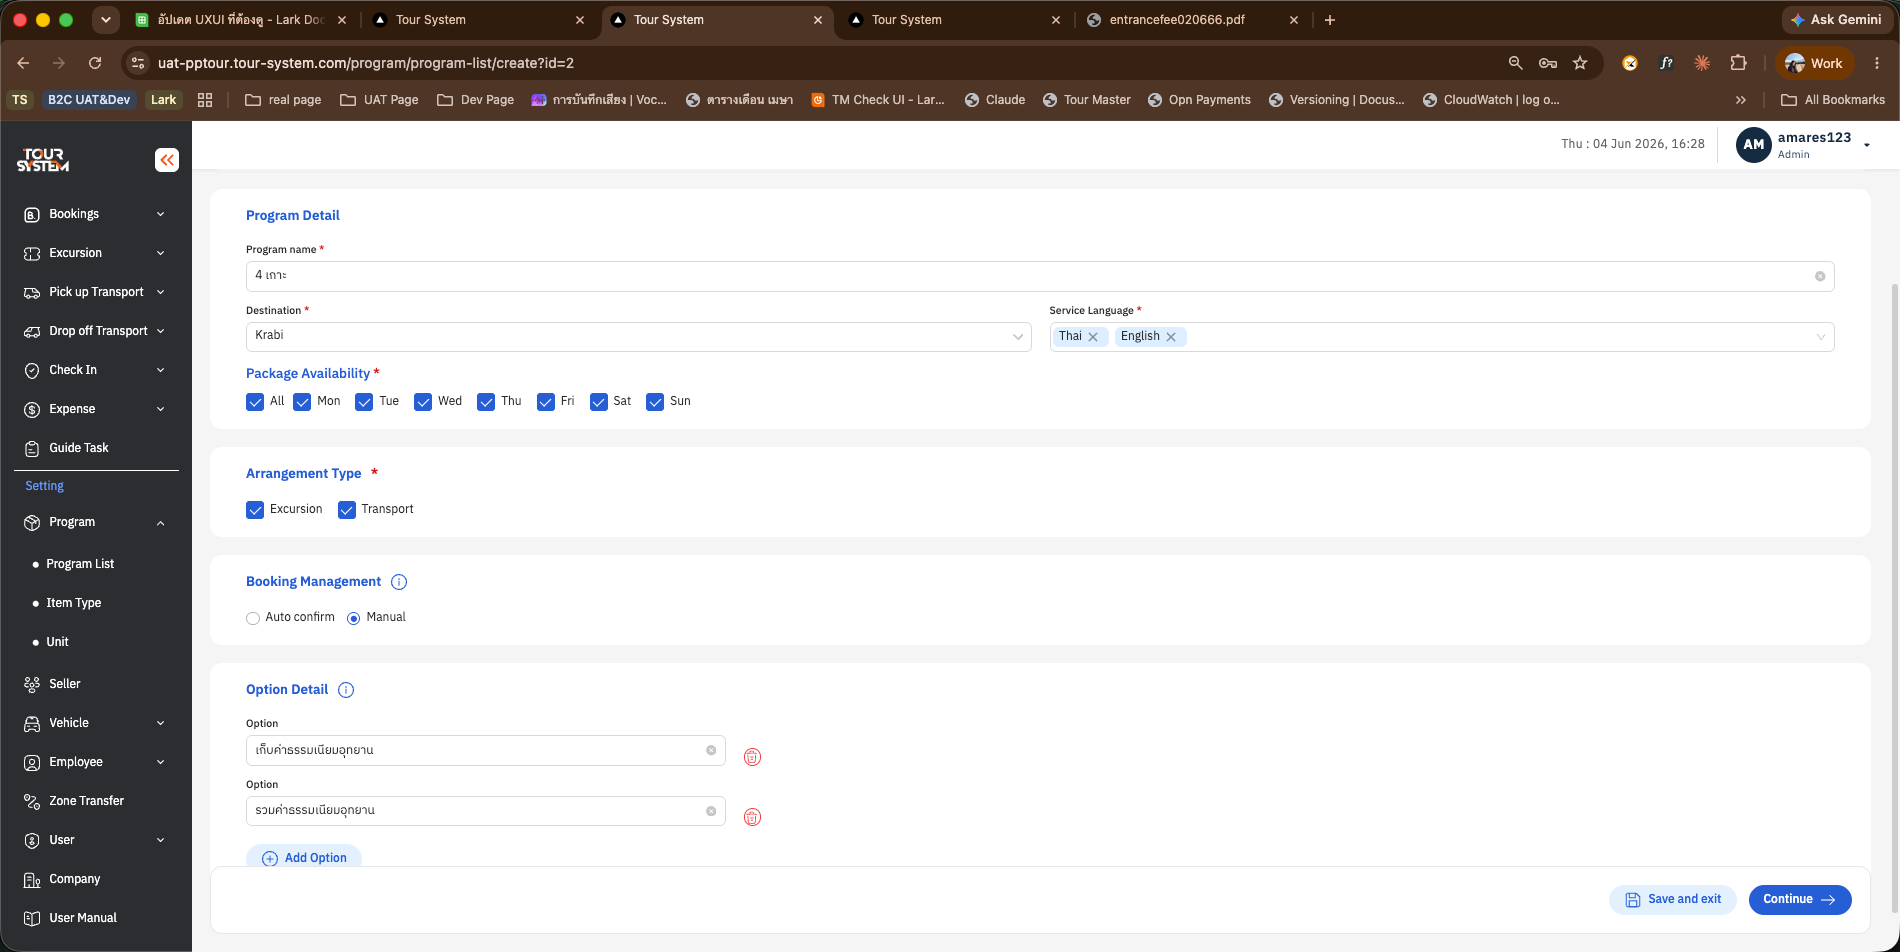
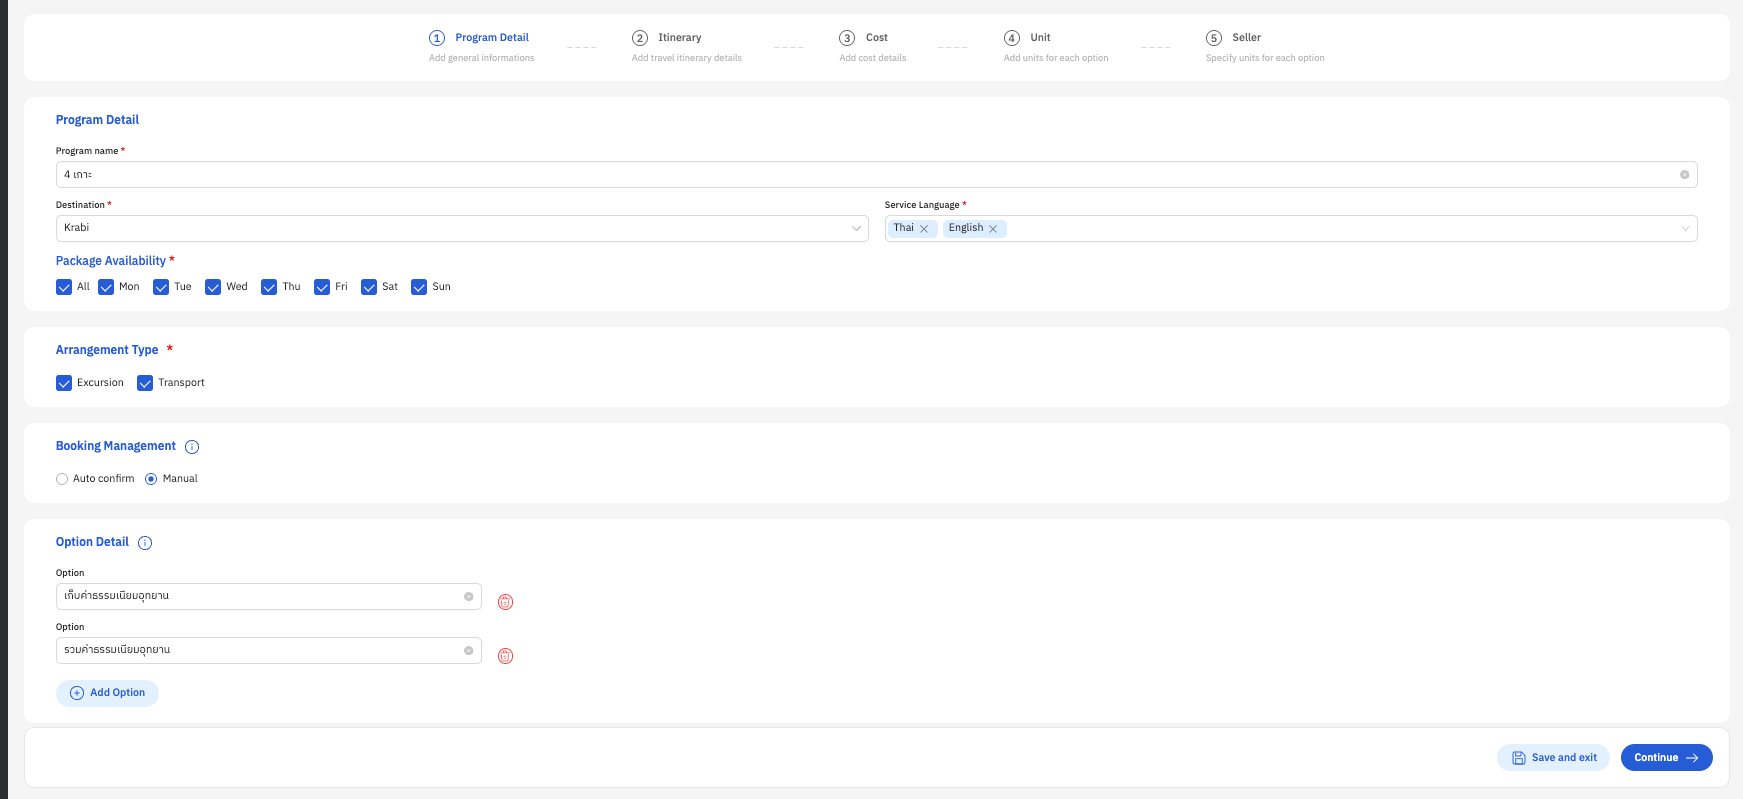
Enhance Program List documentation by adding visual elements, updating column descriptions, and clarifying status definitions. Removed obsolete sections for improved clarity and organization. Deleted unused files and updated asset references for better performance.

diff --git a/src/css/custom.css b/src/css/custom.css
@@ -342,6 +342,14 @@ article {
   object-fit: contain;
 }
 
+/* รูปคู่มือขนาดกลาง (~500px) — ใช้กับ <div className="manual-img-500"> */
+.manual-img-500 img {
+  display: block;
+  width: 1500px;
+  max-width: 100%;
+  height: auto;
+}
+
 /* ─── Headings ───────────────────────────────────────────────────── */
 h1 {
   color: #142B41;

diff --git a/docs/404.html b/docs/404.html
@@ -4,8 +4,8 @@
 <meta charset="UTF-8">
 <meta name="generator" content="Docusaurus v3.10.1">
 <title data-rh="true">Page Not Found | Tour Master</title><meta data-rh="true" name="viewport" content="width=device-width,initial-scale=1"><meta data-rh="true" name="twitter:card" content="summary_large_image"><meta data-rh="true" property="og:image" content="https://ttd-global.github.io/TourMaster-Manual/img/TourMaster-Logo.png"><meta data-rh="true" name="twitter:image" content="https://ttd-global.github.io/TourMaster-Manual/img/TourMaster-Logo.png"><meta data-rh="true" property="og:url" content="https://ttd-global.github.io/TourMaster-Manual/404.html"><meta data-rh="true" property="og:locale" content="en"><meta data-rh="true" name="docusaurus_locale" content="en"><meta data-rh="true" name="docusaurus_tag" content="default"><meta data-rh="true" name="docsearch:language" content="en"><meta data-rh="true" name="docsearch:docusaurus_tag" content="default"><meta data-rh="true" property="og:title" content="Page Not Found | Tour Master"><link data-rh="true" rel="icon" href="/TourMaster-Manual/img/LogoTM.png"><link data-rh="true" rel="canonical" href="https://ttd-global.github.io/TourMaster-Manual/404.html"><link data-rh="true" rel="alternate" href="https://ttd-global.github.io/TourMaster-Manual/404.html" hreflang="en"><link data-rh="true" rel="alternate" href="https://ttd-global.github.io/TourMaster-Manual/404.html" hreflang="x-default"><link rel="alternate" type="application/rss+xml" href="/TourMaster-Manual/blog/rss.xml" title="Tour Master RSS Feed">
-<link rel="alternate" type="application/atom+xml" href="/TourMaster-Manual/blog/atom.xml" title="Tour Master Atom Feed"><link rel="stylesheet" href="/TourMaster-Manual/assets/css/styles.e8b418c9.css">
-<script src="/TourMaster-Manual/assets/js/runtime~main.68f56dc6.js" defer="defer"></script>
+<link rel="alternate" type="application/atom+xml" href="/TourMaster-Manual/blog/atom.xml" title="Tour Master Atom Feed"><link rel="stylesheet" href="/TourMaster-Manual/assets/css/styles.4f8c089e.css">
+<script src="/TourMaster-Manual/assets/js/runtime~main.8f8ff12d.js" defer="defer"></script>
 <script src="/TourMaster-Manual/assets/js/main.2895e9ae.js" defer="defer"></script>
 </head>
 <body>

diff --git a/docs/blog/archive/index.html b/docs/blog/archive/index.html
@@ -4,8 +4,8 @@
 <meta charset="UTF-8">
 <meta name="generator" content="Docusaurus v3.10.1">
 <title data-rh="true">Archive | Tour Master</title><meta data-rh="true" name="viewport" content="width=device-width,initial-scale=1"><meta data-rh="true" name="twitter:card" content="summary_large_image"><meta data-rh="true" property="og:image" content="https://ttd-global.github.io/TourMaster-Manual/img/TourMaster-Logo.png"><meta data-rh="true" name="twitter:image" content="https://ttd-global.github.io/TourMaster-Manual/img/TourMaster-Logo.png"><meta data-rh="true" property="og:url" content="https://ttd-global.github.io/TourMaster-Manual/blog/archive"><meta data-rh="true" property="og:locale" content="en"><meta data-rh="true" name="docusaurus_locale" content="en"><meta data-rh="true" name="docusaurus_tag" content="default"><meta data-rh="true" name="docsearch:language" content="en"><meta data-rh="true" name="docsearch:docusaurus_tag" content="default"><meta data-rh="true" property="og:title" content="Archive | Tour Master"><meta data-rh="true" name="description" content="Archive"><meta data-rh="true" property="og:description" content="Archive"><link data-rh="true" rel="icon" href="/TourMaster-Manual/img/LogoTM.png"><link data-rh="true" rel="canonical" href="https://ttd-global.github.io/TourMaster-Manual/blog/archive"><link data-rh="true" rel="alternate" href="https://ttd-global.github.io/TourMaster-Manual/blog/archive" hreflang="en"><link data-rh="true" rel="alternate" href="https://ttd-global.github.io/TourMaster-Manual/blog/archive" hreflang="x-default"><link rel="alternate" type="application/rss+xml" href="/TourMaster-Manual/blog/rss.xml" title="Tour Master RSS Feed">
-<link rel="alternate" type="application/atom+xml" href="/TourMaster-Manual/blog/atom.xml" title="Tour Master Atom Feed"><link rel="stylesheet" href="/TourMaster-Manual/assets/css/styles.e8b418c9.css">
-<script src="/TourMaster-Manual/assets/js/runtime~main.68f56dc6.js" defer="defer"></script>
+<link rel="alternate" type="application/atom+xml" href="/TourMaster-Manual/blog/atom.xml" title="Tour Master Atom Feed"><link rel="stylesheet" href="/TourMaster-Manual/assets/css/styles.4f8c089e.css">
+<script src="/TourMaster-Manual/assets/js/runtime~main.8f8ff12d.js" defer="defer"></script>
 <script src="/TourMaster-Manual/assets/js/main.2895e9ae.js" defer="defer"></script>
 </head>
 <body>

diff --git a/docs/blog/authors/index.html b/docs/blog/authors/index.html
@@ -4,8 +4,8 @@
 <meta charset="UTF-8">
 <meta name="generator" content="Docusaurus v3.10.1">
 <title data-rh="true">Authors | Tour Master</title><meta data-rh="true" name="viewport" content="width=device-width,initial-scale=1"><meta data-rh="true" name="twitter:card" content="summary_large_image"><meta data-rh="true" property="og:image" content="https://ttd-global.github.io/TourMaster-Manual/img/TourMaster-Logo.png"><meta data-rh="true" name="twitter:image" content="https://ttd-global.github.io/TourMaster-Manual/img/TourMaster-Logo.png"><meta data-rh="true" property="og:url" content="https://ttd-global.github.io/TourMaster-Manual/blog/authors"><meta data-rh="true" property="og:locale" content="en"><meta data-rh="true" name="docusaurus_locale" content="en"><meta data-rh="true" name="docsearch:language" content="en"><meta data-rh="true" property="og:title" content="Authors | Tour Master"><meta data-rh="true" name="docusaurus_tag" content="blog_authors_list"><meta data-rh="true" name="docsearch:docusaurus_tag" content="blog_authors_list"><link data-rh="true" rel="icon" href="/TourMaster-Manual/img/LogoTM.png"><link data-rh="true" rel="canonical" href="https://ttd-global.github.io/TourMaster-Manual/blog/authors"><link data-rh="true" rel="alternate" href="https://ttd-global.github.io/TourMaster-Manual/blog/authors" hreflang="en"><link data-rh="true" rel="alternate" href="https://ttd-global.github.io/TourMaster-Manual/blog/authors" hreflang="x-default"><link rel="alternate" type="application/rss+xml" href="/TourMaster-Manual/blog/rss.xml" title="Tour Master RSS Feed">
-<link rel="alternate" type="application/atom+xml" href="/TourMaster-Manual/blog/atom.xml" title="Tour Master Atom Feed"><link rel="stylesheet" href="/TourMaster-Manual/assets/css/styles.e8b418c9.css">
-<script src="/TourMaster-Manual/assets/js/runtime~main.68f56dc6.js" defer="defer"></script>
+<link rel="alternate" type="application/atom+xml" href="/TourMaster-Manual/blog/atom.xml" title="Tour Master Atom Feed"><link rel="stylesheet" href="/TourMaster-Manual/assets/css/styles.4f8c089e.css">
+<script src="/TourMaster-Manual/assets/js/runtime~main.8f8ff12d.js" defer="defer"></script>
 <script src="/TourMaster-Manual/assets/js/main.2895e9ae.js" defer="defer"></script>
 </head>
 <body>

diff --git a/docs/blog/first-blog-post/index.html b/docs/blog/first-blog-post/index.html
@@ -4,8 +4,8 @@
 <meta charset="UTF-8">
 <meta name="generator" content="Docusaurus v3.10.1">
 <title data-rh="true">First Blog Post | Tour Master</title><meta data-rh="true" name="viewport" content="width=device-width,initial-scale=1"><meta data-rh="true" name="twitter:card" content="summary_large_image"><meta data-rh="true" property="og:image" content="https://ttd-global.github.io/TourMaster-Manual/img/TourMaster-Logo.png"><meta data-rh="true" name="twitter:image" content="https://ttd-global.github.io/TourMaster-Manual/img/TourMaster-Logo.png"><meta data-rh="true" property="og:url" content="https://ttd-global.github.io/TourMaster-Manual/blog/first-blog-post"><meta data-rh="true" property="og:locale" content="en"><meta data-rh="true" name="docusaurus_locale" content="en"><meta data-rh="true" name="docusaurus_tag" content="default"><meta data-rh="true" name="docsearch:language" content="en"><meta data-rh="true" name="docsearch:docusaurus_tag" content="default"><meta data-rh="true" property="og:title" content="First Blog Post | Tour Master"><meta data-rh="true" name="description" content="Lorem ipsum dolor sit amet, consectetur adipiscing elit. Pellentesque elementum dignissim ultricies. Fusce rhoncus ipsum tempor eros aliquam consequat. Lorem ipsum dolor sit amet"><meta data-rh="true" property="og:description" content="Lorem ipsum dolor sit amet, consectetur adipiscing elit. Pellentesque elementum dignissim ultricies. Fusce rhoncus ipsum tempor eros aliquam consequat. Lorem ipsum dolor sit amet"><meta data-rh="true" property="og:type" content="article"><meta data-rh="true" property="article:published_time" content="2019-05-28T00:00:00.000Z"><meta data-rh="true" property="article:author" content="https://github.com/wgao19"><meta data-rh="true" property="article:tag" content="hola,docusaurus"><link data-rh="true" rel="icon" href="/TourMaster-Manual/img/LogoTM.png"><link data-rh="true" rel="canonical" href="https://ttd-global.github.io/TourMaster-Manual/blog/first-blog-post"><link data-rh="true" rel="alternate" href="https://ttd-global.github.io/TourMaster-Manual/blog/first-blog-post" hreflang="en"><link data-rh="true" rel="alternate" href="https://ttd-global.github.io/TourMaster-Manual/blog/first-blog-post" hreflang="x-default"><script data-rh="true" type="application/ld+json">{"@context":"https://schema.org","@type":"BlogPosting","@id":"https://ttd-global.github.io/TourMaster-Manual/blog/first-blog-post","mainEntityOfPage":"https://ttd-global.github.io/TourMaster-Manual/blog/first-blog-post","url":"https://ttd-global.github.io/TourMaster-Manual/blog/first-blog-post","headline":"First Blog Post","name":"First Blog Post","description":"Lorem ipsum dolor sit amet, consectetur adipiscing elit. Pellentesque elementum dignissim ultricies. Fusce rhoncus ipsum tempor eros aliquam consequat. Lorem ipsum dolor sit amet","datePublished":"2019-05-28T00:00:00.000Z","author":{"@type":"Person","name":"Gao Wei","description":"Docusaurus Core Team","url":"https://github.com/wgao19","image":"https://github.com/wgao19.png"},"keywords":[],"isPartOf":{"@type":"Blog","@id":"https://ttd-global.github.io/TourMaster-Manual/blog","name":"Blog"}}</script><link rel="alternate" type="application/rss+xml" href="/TourMaster-Manual/blog/rss.xml" title="Tour Master RSS Feed">
-<link rel="alternate" type="application/atom+xml" href="/TourMaster-Manual/blog/atom.xml" title="Tour Master Atom Feed"><link rel="stylesheet" href="/TourMaster-Manual/assets/css/styles.e8b418c9.css">
-<script src="/TourMaster-Manual/assets/js/runtime~main.68f56dc6.js" defer="defer"></script>
+<link rel="alternate" type="application/atom+xml" href="/TourMaster-Manual/blog/atom.xml" title="Tour Master Atom Feed"><link rel="stylesheet" href="/TourMaster-Manual/assets/css/styles.4f8c089e.css">
+<script src="/TourMaster-Manual/assets/js/runtime~main.8f8ff12d.js" defer="defer"></script>
 <script src="/TourMaster-Manual/assets/js/main.2895e9ae.js" defer="defer"></script>
 </head>
 <body>

diff --git a/docs/blog/index.html b/docs/blog/index.html
@@ -4,8 +4,8 @@
 <meta charset="UTF-8">
 <meta name="generator" content="Docusaurus v3.10.1">
 <title data-rh="true">Blog | Tour Master</title><meta data-rh="true" name="viewport" content="width=device-width,initial-scale=1"><meta data-rh="true" name="twitter:card" content="summary_large_image"><meta data-rh="true" property="og:image" content="https://ttd-global.github.io/TourMaster-Manual/img/TourMaster-Logo.png"><meta data-rh="true" name="twitter:image" content="https://ttd-global.github.io/TourMaster-Manual/img/TourMaster-Logo.png"><meta data-rh="true" property="og:url" content="https://ttd-global.github.io/TourMaster-Manual/blog"><meta data-rh="true" property="og:locale" content="en"><meta data-rh="true" name="docusaurus_locale" content="en"><meta data-rh="true" name="docsearch:language" content="en"><meta data-rh="true" property="og:title" content="Blog | Tour Master"><meta data-rh="true" name="description" content="Blog"><meta data-rh="true" property="og:description" content="Blog"><meta data-rh="true" name="docusaurus_tag" content="blog_posts_list"><meta data-rh="true" name="docsearch:docusaurus_tag" content="blog_posts_list"><link data-rh="true" rel="icon" href="/TourMaster-Manual/img/LogoTM.png"><link data-rh="true" rel="canonical" href="https://ttd-global.github.io/TourMaster-Manual/blog"><link data-rh="true" rel="alternate" href="https://ttd-global.github.io/TourMaster-Manual/blog" hreflang="en"><link data-rh="true" rel="alternate" href="https://ttd-global.github.io/TourMaster-Manual/blog" hreflang="x-default"><script data-rh="true" type="application/ld+json">{"@context":"https://schema.org","@type":"Blog","@id":"https://ttd-global.github.io/TourMaster-Manual/blog","mainEntityOfPage":"https://ttd-global.github.io/TourMaster-Manual/blog","headline":"Blog","description":"Blog","blogPost":[{"@type":"BlogPosting","@id":"https://ttd-global.github.io/TourMaster-Manual/blog/welcome","mainEntityOfPage":"https://ttd-global.github.io/TourMaster-Manual/blog/welcome","url":"https://ttd-global.github.io/TourMaster-Manual/blog/welcome","headline":"Welcome","name":"Welcome","description":"Docusaurus blogging features are powered by the blog plugin.","datePublished":"2021-08-26T00:00:00.000Z","author":[{"@type":"Person","name":"Sébastien Lorber","description":"Docusaurus maintainer","url":"https://sebastienlorber.com","image":"https://github.com/slorber.png"},{"@type":"Person","name":"Yangshun Tay","description":"Front End Engineer @ Facebook","url":"https://github.com/yangshun","image":"https://github.com/yangshun.png"}],"keywords":[]},{"@type":"BlogPosting","@id":"https://ttd-global.github.io/TourMaster-Manual/blog/mdx-blog-post","mainEntityOfPage":"https://ttd-global.github.io/TourMaster-Manual/blog/mdx-blog-post","url":"https://ttd-global.github.io/TourMaster-Manual/blog/mdx-blog-post","headline":"MDX Blog Post","name":"MDX Blog Post","description":"Blog posts support Docusaurus Markdown features, such as MDX.","datePublished":"2021-08-01T00:00:00.000Z","author":{"@type":"Person","name":"Sébastien Lorber","description":"Docusaurus maintainer","url":"https://sebastienlorber.com","image":"https://github.com/slorber.png"},"keywords":[]},{"@type":"BlogPosting","@id":"https://ttd-global.github.io/TourMaster-Manual/blog/long-blog-post","mainEntityOfPage":"https://ttd-global.github.io/TourMaster-Manual/blog/long-blog-post","url":"https://ttd-global.github.io/TourMaster-Manual/blog/long-blog-post","headline":"Long Blog Post","name":"Long Blog Post","description":"This is the summary of a very long blog post,","datePublished":"2019-05-29T00:00:00.000Z","author":{"@type":"Person","name":"Endilie Yacop Sucipto","description":"Maintainer of Docusaurus","url":"https://github.com/endiliey","image":"https://github.com/endiliey.png"},"keywords":[]},{"@type":"BlogPosting","@id":"https://ttd-global.github.io/TourMaster-Manual/blog/first-blog-post","mainEntityOfPage":"https://ttd-global.github.io/TourMaster-Manual/blog/first-blog-post","url":"https://ttd-global.github.io/TourMaster-Manual/blog/first-blog-post","headline":"First Blog Post","name":"First Blog Post","description":"Lorem ipsum dolor sit amet, consectetur adipiscing elit. Pellentesque elementum dignissim ultricies. Fusce rhoncus ipsum tempor eros aliquam consequat. Lorem ipsum dolor sit amet","datePublished":"2019-05-28T00:00:00.000Z","author":{"@type":"Person","name":"Gao Wei","description":"Docusaurus Core Team","url":"https://github.com/wgao19","image":"https://github.com/wgao19.png"},"keywords":[]}]}</script><link rel="alternate" type="application/rss+xml" href="/TourMaster-Manual/blog/rss.xml" title="Tour Master RSS Feed">
-<link rel="alternate" type="application/atom+xml" href="/TourMaster-Manual/blog/atom.xml" title="Tour Master Atom Feed"><link rel="stylesheet" href="/TourMaster-Manual/assets/css/styles.e8b418c9.css">
-<script src="/TourMaster-Manual/assets/js/runtime~main.68f56dc6.js" defer="defer"></script>
+<link rel="alternate" type="application/atom+xml" href="/TourMaster-Manual/blog/atom.xml" title="Tour Master Atom Feed"><link rel="stylesheet" href="/TourMaster-Manual/assets/css/styles.4f8c089e.css">
+<script src="/TourMaster-Manual/assets/js/runtime~main.8f8ff12d.js" defer="defer"></script>
 <script src="/TourMaster-Manual/assets/js/main.2895e9ae.js" defer="defer"></script>
 </head>
 <body>

diff --git a/docs/blog/long-blog-post/index.html b/docs/blog/long-blog-post/index.html
@@ -4,8 +4,8 @@
 <meta charset="UTF-8">
 <meta name="generator" content="Docusaurus v3.10.1">
 <title data-rh="true">Long Blog Post | Tour Master</title><meta data-rh="true" name="viewport" content="width=device-width,initial-scale=1"><meta data-rh="true" name="twitter:card" content="summary_large_image"><meta data-rh="true" property="og:image" content="https://ttd-global.github.io/TourMaster-Manual/img/TourMaster-Logo.png"><meta data-rh="true" name="twitter:image" content="https://ttd-global.github.io/TourMaster-Manual/img/TourMaster-Logo.png"><meta data-rh="true" property="og:url" content="https://ttd-global.github.io/TourMaster-Manual/blog/long-blog-post"><meta data-rh="true" property="og:locale" content="en"><meta data-rh="true" name="docusaurus_locale" content="en"><meta data-rh="true" name="docusaurus_tag" content="default"><meta data-rh="true" name="docsearch:language" content="en"><meta data-rh="true" name="docsearch:docusaurus_tag" content="default"><meta data-rh="true" property="og:title" content="Long Blog Post | Tour Master"><meta data-rh="true" name="description" content="This is the summary of a very long blog post,"><meta data-rh="true" property="og:description" content="This is the summary of a very long blog post,"><meta data-rh="true" property="og:type" content="article"><meta data-rh="true" property="article:published_time" content="2019-05-29T00:00:00.000Z"><meta data-rh="true" property="article:author" content="https://github.com/endiliey"><meta data-rh="true" property="article:tag" content="hello,docusaurus"><link data-rh="true" rel="icon" href="/TourMaster-Manual/img/LogoTM.png"><link data-rh="true" rel="canonical" href="https://ttd-global.github.io/TourMaster-Manual/blog/long-blog-post"><link data-rh="true" rel="alternate" href="https://ttd-global.github.io/TourMaster-Manual/blog/long-blog-post" hreflang="en"><link data-rh="true" rel="alternate" href="https://ttd-global.github.io/TourMaster-Manual/blog/long-blog-post" hreflang="x-default"><script data-rh="true" type="application/ld+json">{"@context":"https://schema.org","@type":"BlogPosting","@id":"https://ttd-global.github.io/TourMaster-Manual/blog/long-blog-post","mainEntityOfPage":"https://ttd-global.github.io/TourMaster-Manual/blog/long-blog-post","url":"https://ttd-global.github.io/TourMaster-Manual/blog/long-blog-post","headline":"Long Blog Post","name":"Long Blog Post","description":"This is the summary of a very long blog post,","datePublished":"2019-05-29T00:00:00.000Z","author":{"@type":"Person","name":"Endilie Yacop Sucipto","description":"Maintainer of Docusaurus","url":"https://github.com/endiliey","image":"https://github.com/endiliey.png"},"keywords":[],"isPartOf":{"@type":"Blog","@id":"https://ttd-global.github.io/TourMaster-Manual/blog","name":"Blog"}}</script><link rel="alternate" type="application/rss+xml" href="/TourMaster-Manual/blog/rss.xml" title="Tour Master RSS Feed">
-<link rel="alternate" type="application/atom+xml" href="/TourMaster-Manual/blog/atom.xml" title="Tour Master Atom Feed"><link rel="stylesheet" href="/TourMaster-Manual/assets/css/styles.e8b418c9.css">
-<script src="/TourMaster-Manual/assets/js/runtime~main.68f56dc6.js" defer="defer"></script>
+<link rel="alternate" type="application/atom+xml" href="/TourMaster-Manual/blog/atom.xml" title="Tour Master Atom Feed"><link rel="stylesheet" href="/TourMaster-Manual/assets/css/styles.4f8c089e.css">
+<script src="/TourMaster-Manual/assets/js/runtime~main.8f8ff12d.js" defer="defer"></script>
 <script src="/TourMaster-Manual/assets/js/main.2895e9ae.js" defer="defer"></script>
 </head>
 <body>

diff --git a/docs/blog/mdx-blog-post/index.html b/docs/blog/mdx-blog-post/index.html
@@ -4,8 +4,8 @@
 <meta charset="UTF-8">
 <meta name="generator" content="Docusaurus v3.10.1">
 <title data-rh="true">MDX Blog Post | Tour Master</title><meta data-rh="true" name="viewport" content="width=device-width,initial-scale=1"><meta data-rh="true" name="twitter:card" content="summary_large_image"><meta data-rh="true" property="og:image" content="https://ttd-global.github.io/TourMaster-Manual/img/TourMaster-Logo.png"><meta data-rh="true" name="twitter:image" content="https://ttd-global.github.io/TourMaster-Manual/img/TourMaster-Logo.png"><meta data-rh="true" property="og:url" content="https://ttd-global.github.io/TourMaster-Manual/blog/mdx-blog-post"><meta data-rh="true" property="og:locale" content="en"><meta data-rh="true" name="docusaurus_locale" content="en"><meta data-rh="true" name="docusaurus_tag" content="default"><meta data-rh="true" name="docsearch:language" content="en"><meta data-rh="true" name="docsearch:docusaurus_tag" content="default"><meta data-rh="true" property="og:title" content="MDX Blog Post | Tour Master"><meta data-rh="true" name="description" content="Blog posts support Docusaurus Markdown features, such as MDX."><meta data-rh="true" property="og:description" content="Blog posts support Docusaurus Markdown features, such as MDX."><meta data-rh="true" property="og:type" content="article"><meta data-rh="true" property="article:published_time" content="2021-08-01T00:00:00.000Z"><meta data-rh="true" property="article:author" content="https://sebastienlorber.com"><meta data-rh="true" property="article:tag" content="docusaurus"><link data-rh="true" rel="icon" href="/TourMaster-Manual/img/LogoTM.png"><link data-rh="true" rel="canonical" href="https://ttd-global.github.io/TourMaster-Manual/blog/mdx-blog-post"><link data-rh="true" rel="alternate" href="https://ttd-global.github.io/TourMaster-Manual/blog/mdx-blog-post" hreflang="en"><link data-rh="true" rel="alternate" href="https://ttd-global.github.io/TourMaster-Manual/blog/mdx-blog-post" hreflang="x-default"><script data-rh="true" type="application/ld+json">{"@context":"https://schema.org","@type":"BlogPosting","@id":"https://ttd-global.github.io/TourMaster-Manual/blog/mdx-blog-post","mainEntityOfPage":"https://ttd-global.github.io/TourMaster-Manual/blog/mdx-blog-post","url":"https://ttd-global.github.io/TourMaster-Manual/blog/mdx-blog-post","headline":"MDX Blog Post","name":"MDX Blog Post","description":"Blog posts support Docusaurus Markdown features, such as MDX.","datePublished":"2021-08-01T00:00:00.000Z","author":{"@type":"Person","name":"Sébastien Lorber","description":"Docusaurus maintainer","url":"https://sebastienlorber.com","image":"https://github.com/slorber.png"},"keywords":[],"isPartOf":{"@type":"Blog","@id":"https://ttd-global.github.io/TourMaster-Manual/blog","name":"Blog"}}</script><link rel="alternate" type="application/rss+xml" href="/TourMaster-Manual/blog/rss.xml" title="Tour Master RSS Feed">
-<link rel="alternate" type="application/atom+xml" href="/TourMaster-Manual/blog/atom.xml" title="Tour Master Atom Feed"><link rel="stylesheet" href="/TourMaster-Manual/assets/css/styles.e8b418c9.css">
-<script src="/TourMaster-Manual/assets/js/runtime~main.68f56dc6.js" defer="defer"></script>
+<link rel="alternate" type="application/atom+xml" href="/TourMaster-Manual/blog/atom.xml" title="Tour Master Atom Feed"><link rel="stylesheet" href="/TourMaster-Manual/assets/css/styles.4f8c089e.css">
+<script src="/TourMaster-Manual/assets/js/runtime~main.8f8ff12d.js" defer="defer"></script>
 <script src="/TourMaster-Manual/assets/js/main.2895e9ae.js" defer="defer"></script>
 </head>
 <body>

diff --git a/docs/blog/tags/docusaurus/index.html b/docs/blog/tags/docusaurus/index.html
@@ -4,8 +4,8 @@
 <meta charset="UTF-8">
 <meta name="generator" content="Docusaurus v3.10.1">
 <title data-rh="true">4 posts tagged with &quot;docusaurus&quot; | Tour Master</title><meta data-rh="true" name="viewport" content="width=device-width,initial-scale=1"><meta data-rh="true" name="twitter:card" content="summary_large_image"><meta data-rh="true" property="og:image" content="https://ttd-global.github.io/TourMaster-Manual/img/TourMaster-Logo.png"><meta data-rh="true" name="twitter:image" content="https://ttd-global.github.io/TourMaster-Manual/img/TourMaster-Logo.png"><meta data-rh="true" property="og:url" content="https://ttd-global.github.io/TourMaster-Manual/blog/tags/docusaurus"><meta data-rh="true" property="og:locale" content="en"><meta data-rh="true" name="docusaurus_locale" content="en"><meta data-rh="true" name="docsearch:language" content="en"><meta data-rh="true" property="og:title" content="4 posts tagged with &quot;docusaurus&quot; | Tour Master"><meta data-rh="true" name="docusaurus_tag" content="blog_tags_posts"><meta data-rh="true" name="docsearch:docusaurus_tag" content="blog_tags_posts"><link data-rh="true" rel="icon" href="/TourMaster-Manual/img/LogoTM.png"><link data-rh="true" rel="canonical" href="https://ttd-global.github.io/TourMaster-Manual/blog/tags/docusaurus"><link data-rh="true" rel="alternate" href="https://ttd-global.github.io/TourMaster-Manual/blog/tags/docusaurus" hreflang="en"><link data-rh="true" rel="alternate" href="https://ttd-global.github.io/TourMaster-Manual/blog/tags/docusaurus" hreflang="x-default"><link rel="alternate" type="application/rss+xml" href="/TourMaster-Manual/blog/rss.xml" title="Tour Master RSS Feed">
-<link rel="alternate" type="application/atom+xml" href="/TourMaster-Manual/blog/atom.xml" title="Tour Master Atom Feed"><link rel="stylesheet" href="/TourMaster-Manual/assets/css/styles.e8b418c9.css">
-<script src="/TourMaster-Manual/assets/js/runtime~main.68f56dc6.js" defer="defer"></script>
+<link rel="alternate" type="application/atom+xml" href="/TourMaster-Manual/blog/atom.xml" title="Tour Master Atom Feed"><link rel="stylesheet" href="/TourMaster-Manual/assets/css/styles.4f8c089e.css">
+<script src="/TourMaster-Manual/assets/js/runtime~main.8f8ff12d.js" defer="defer"></script>
 <script src="/TourMaster-Manual/assets/js/main.2895e9ae.js" defer="defer"></script>
 </head>
 <body>

diff --git a/docs/blog/tags/facebook/index.html b/docs/blog/tags/facebook/index.html
@@ -4,8 +4,8 @@
 <meta charset="UTF-8">
 <meta name="generator" content="Docusaurus v3.10.1">
 <title data-rh="true">One post tagged with &quot;facebook&quot; | Tour Master</title><meta data-rh="true" name="viewport" content="width=device-width,initial-scale=1"><meta data-rh="true" name="twitter:card" content="summary_large_image"><meta data-rh="true" property="og:image" content="https://ttd-global.github.io/TourMaster-Manual/img/TourMaster-Logo.png"><meta data-rh="true" name="twitter:image" content="https://ttd-global.github.io/TourMaster-Manual/img/TourMaster-Logo.png"><meta data-rh="true" property="og:url" content="https://ttd-global.github.io/TourMaster-Manual/blog/tags/facebook"><meta data-rh="true" property="og:locale" content="en"><meta data-rh="true" name="docusaurus_locale" content="en"><meta data-rh="true" name="docsearch:language" content="en"><meta data-rh="true" property="og:title" content="One post tagged with &quot;facebook&quot; | Tour Master"><meta data-rh="true" name="docusaurus_tag" content="blog_tags_posts"><meta data-rh="true" name="docsearch:docusaurus_tag" content="blog_tags_posts"><link data-rh="true" rel="icon" href="/TourMaster-Manual/img/LogoTM.png"><link data-rh="true" rel="canonical" href="https://ttd-global.github.io/TourMaster-Manual/blog/tags/facebook"><link data-rh="true" rel="alternate" href="https://ttd-global.github.io/TourMaster-Manual/blog/tags/facebook" hreflang="en"><link data-rh="true" rel="alternate" href="https://ttd-global.github.io/TourMaster-Manual/blog/tags/facebook" hreflang="x-default"><link rel="alternate" type="application/rss+xml" href="/TourMaster-Manual/blog/rss.xml" title="Tour Master RSS Feed">
-<link rel="alternate" type="application/atom+xml" href="/TourMaster-Manual/blog/atom.xml" title="Tour Master Atom Feed"><link rel="stylesheet" href="/TourMaster-Manual/assets/css/styles.e8b418c9.css">
-<script src="/TourMaster-Manual/assets/js/runtime~main.68f56dc6.js" defer="defer"></script>
+<link rel="alternate" type="application/atom+xml" href="/TourMaster-Manual/blog/atom.xml" title="Tour Master Atom Feed"><link rel="stylesheet" href="/TourMaster-Manual/assets/css/styles.4f8c089e.css">
+<script src="/TourMaster-Manual/assets/js/runtime~main.8f8ff12d.js" defer="defer"></script>
 <script src="/TourMaster-Manual/assets/js/main.2895e9ae.js" defer="defer"></script>
 </head>
 <body>

diff --git a/docs/blog/tags/hello/index.html b/docs/blog/tags/hello/index.html
@@ -4,8 +4,8 @@
 <meta charset="UTF-8">
 <meta name="generator" content="Docusaurus v3.10.1">
 <title data-rh="true">2 posts tagged with &quot;hello&quot; | Tour Master</title><meta data-rh="true" name="viewport" content="width=device-width,initial-scale=1"><meta data-rh="true" name="twitter:card" content="summary_large_image"><meta data-rh="true" property="og:image" content="https://ttd-global.github.io/TourMaster-Manual/img/TourMaster-Logo.png"><meta data-rh="true" name="twitter:image" content="https://ttd-global.github.io/TourMaster-Manual/img/TourMaster-Logo.png"><meta data-rh="true" property="og:url" content="https://ttd-global.github.io/TourMaster-Manual/blog/tags/hello"><meta data-rh="true" property="og:locale" content="en"><meta data-rh="true" name="docusaurus_locale" content="en"><meta data-rh="true" name="docsearch:language" content="en"><meta data-rh="true" property="og:title" content="2 posts tagged with &quot;hello&quot; | Tour Master"><meta data-rh="true" name="docusaurus_tag" content="blog_tags_posts"><meta data-rh="true" name="docsearch:docusaurus_tag" content="blog_tags_posts"><link data-rh="true" rel="icon" href="/TourMaster-Manual/img/LogoTM.png"><link data-rh="true" rel="canonical" href="https://ttd-global.github.io/TourMaster-Manual/blog/tags/hello"><link data-rh="true" rel="alternate" href="https://ttd-global.github.io/TourMaster-Manual/blog/tags/hello" hreflang="en"><link data-rh="true" rel="alternate" href="https://ttd-global.github.io/TourMaster-Manual/blog/tags/hello" hreflang="x-default"><link rel="alternate" type="application/rss+xml" href="/TourMaster-Manual/blog/rss.xml" title="Tour Master RSS Feed">
-<link rel="alternate" type="application/atom+xml" href="/TourMaster-Manual/blog/atom.xml" title="Tour Master Atom Feed"><link rel="stylesheet" href="/TourMaster-Manual/assets/css/styles.e8b418c9.css">
-<script src="/TourMaster-Manual/assets/js/runtime~main.68f56dc6.js" defer="defer"></script>
+<link rel="alternate" type="application/atom+xml" href="/TourMaster-Manual/blog/atom.xml" title="Tour Master Atom Feed"><link rel="stylesheet" href="/TourMaster-Manual/assets/css/styles.4f8c089e.css">
+<script src="/TourMaster-Manual/assets/js/runtime~main.8f8ff12d.js" defer="defer"></script>
 <script src="/TourMaster-Manual/assets/js/main.2895e9ae.js" defer="defer"></script>
 </head>
 <body>

diff --git a/docs/blog/tags/hola/index.html b/docs/blog/tags/hola/index.html
@@ -4,8 +4,8 @@
 <meta charset="UTF-8">
 <meta name="generator" content="Docusaurus v3.10.1">
 <title data-rh="true">One post tagged with &quot;hola&quot; | Tour Master</title><meta data-rh="true" name="viewport" content="width=device-width,initial-scale=1"><meta data-rh="true" name="twitter:card" content="summary_large_image"><meta data-rh="true" property="og:image" content="https://ttd-global.github.io/TourMaster-Manual/img/TourMaster-Logo.png"><meta data-rh="true" name="twitter:image" content="https://ttd-global.github.io/TourMaster-Manual/img/TourMaster-Logo.png"><meta data-rh="true" property="og:url" content="https://ttd-global.github.io/TourMaster-Manual/blog/tags/hola"><meta data-rh="true" property="og:locale" content="en"><meta data-rh="true" name="docusaurus_locale" content="en"><meta data-rh="true" name="docsearch:language" content="en"><meta data-rh="true" property="og:title" content="One post tagged with &quot;hola&quot; | Tour Master"><meta data-rh="true" name="docusaurus_tag" content="blog_tags_posts"><meta data-rh="true" name="docsearch:docusaurus_tag" content="blog_tags_posts"><link data-rh="true" rel="icon" href="/TourMaster-Manual/img/LogoTM.png"><link data-rh="true" rel="canonical" href="https://ttd-global.github.io/TourMaster-Manual/blog/tags/hola"><link data-rh="true" rel="alternate" href="https://ttd-global.github.io/TourMaster-Manual/blog/tags/hola" hreflang="en"><link data-rh="true" rel="alternate" href="https://ttd-global.github.io/TourMaster-Manual/blog/tags/hola" hreflang="x-default"><link rel="alternate" type="application/rss+xml" href="/TourMaster-Manual/blog/rss.xml" title="Tour Master RSS Feed">
-<link rel="alternate" type="application/atom+xml" href="/TourMaster-Manual/blog/atom.xml" title="Tour Master Atom Feed"><link rel="stylesheet" href="/TourMaster-Manual/assets/css/styles.e8b418c9.css">
-<script src="/TourMaster-Manual/assets/js/runtime~main.68f56dc6.js" defer="defer"></script>
+<link rel="alternate" type="application/atom+xml" href="/TourMaster-Manual/blog/atom.xml" title="Tour Master Atom Feed"><link rel="stylesheet" href="/TourMaster-Manual/assets/css/styles.4f8c089e.css">
+<script src="/TourMaster-Manual/assets/js/runtime~main.8f8ff12d.js" defer="defer"></script>
 <script src="/TourMaster-Manual/assets/js/main.2895e9ae.js" defer="defer"></script>
 </head>
 <body>